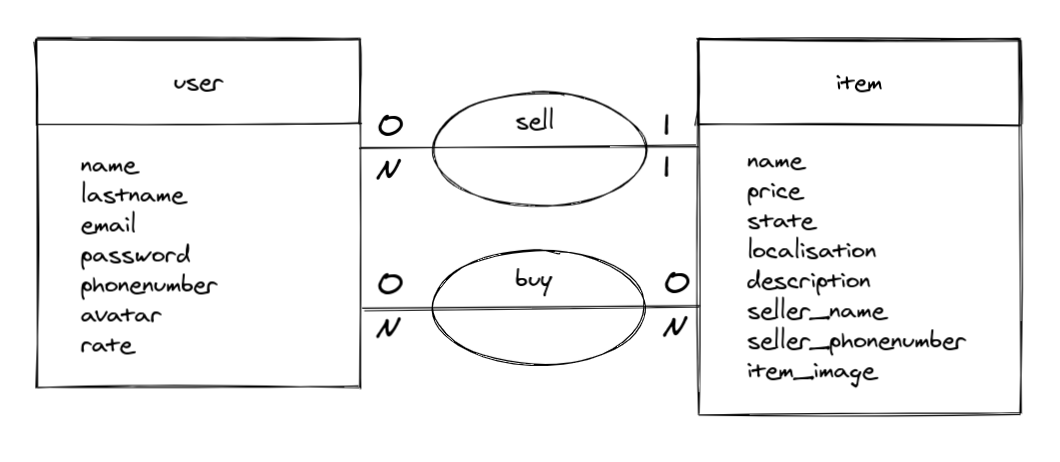
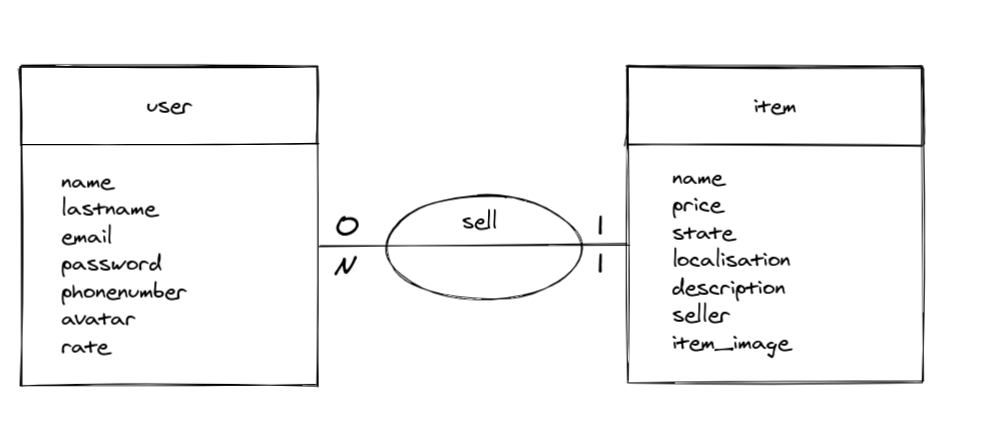
now when not logged in, items aren't displayed

diff --git a/migrations/Version20210209075114.php b/migrations/Version20210209075114.php
@@ -1,0 +1,31 @@
+<?php
+
+declare(strict_types=1);
+
+namespace DoctrineMigrations;
+
+use Doctrine\DBAL\Schema\Schema;
+use Doctrine\Migrations\AbstractMigration;
+
+/**
+ * Auto-generated Migration: Please modify to your needs!
+ */
+final class Version20210209075114 extends AbstractMigration
+{
+    public function getDescription() : string
+    {
+        return '';
+    }
+
+    public function up(Schema $schema) : void
+    {
+        // this up() migration is auto-generated, please modify it to your needs
+        $this->addSql('ALTER TABLE item CHANGE seller_id seller_id INT NOT NULL');
+    }
+
+    public function down(Schema $schema) : void
+    {
+        // this down() migration is auto-generated, please modify it to your needs
+        $this->addSql('ALTER TABLE item CHANGE seller_id seller_id INT DEFAULT NULL');
+    }
+}
